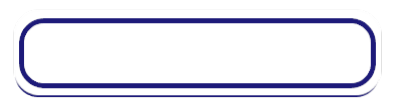
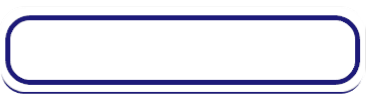
updated ui, added some styling and text feild, edited fadeOut

Changed region(s): [[0.0, 0.1489, 1.0, 1.0]]

diff --git a/src/scenes/TitleScene.ts b/src/scenes/TitleScene.ts
@@ -12,8 +12,8 @@ export default class TitleScene extends Phaser.Scene {
         this.load.image('bg3', "/images/title_bg_3.png");
         this.load.image('bg4', "/images/title_bg_4.png");
 
-        this.load.image('button-up', "/images/blue-button-up.png");
-        this.load.image('button-down', "/images/blue-button-down.png");
+        this.load.image('button-up', "/images/host-button-up.png");
+        this.load.image('button-down', "/images/host-button-down.png");
         this.load.audio('button-press-sound', '/audio/button-press.mp3');
 
     }
@@ -28,7 +28,7 @@ export default class TitleScene extends Phaser.Scene {
             image.displayHeight = this.sys.canvas.height;
         }
         
-        this.add.image(50, 25, 'title').setOrigin(0);
+        this.add.image(window.innerWidth / 2, window.innerHeight / 6, 'title').scale = 1.5;
         
         // Define the "button-anim" animation with the "button-up" and "button-down" frames
         this.anims.create({
@@ -41,25 +41,43 @@ export default class TitleScene extends Phaser.Scene {
             frameRate: 45,
             repeat: 0
         });
+
+        const input = this.add.dom(2 * window.innerWidth / 3, 2 * window.innerHeight / 5, 'input');
+        input.node.setAttribute('id', 'join-game-field');
         
-        const button1 = this.add.sprite(250, 225, 'button-up').setInteractive();
+        input.addListener('keydown');
+        // When the user presses "Enter", log the text to the console
+        input.on('keydown', (event: KeyboardEvent) => {
+            if (event.key === 'Enter') {
+                console.log((input.node as HTMLInputElement).value);
+                (input.node as HTMLInputElement).value = '';
+            }
+        });
+        
+        const button1 = this.add.sprite(window.innerWidth / 3, window.innerHeight / 2, 'button-up').setInteractive();
         
         button1.on('pointerdown', () => {
             button1.anims.play("button-press");
             button_press_sound.play();
-            this.cameras.main.fadeOut(250, 0, 0, 0);
-        });
-        
-        const button2 = this.add.sprite(250, 325, 'button-up').setInteractive();
-        button2.on('pointerdown', () => {
-            this.scene.start('options');
+            fadeOut('gamestart', this);
         });
 
-        this.add.text(175, 205, "Play Game", { fontFamily: 'Baskerville', fontSize: 32, color: '0' });
+        const button2 = this.add.sprite(2 * window.innerWidth / 3, window.innerHeight / 2, 'button-up').setInteractive();
+        button2.on('pointerdown', () => {
+            button2.anims.play("button-press");
+            button_press_sound.play();
+            fadeOut('gamestart', this);
+        });
+
+        const fadeOut = (nextScene : string, currentScene : Phaser.Scene) => {
+            currentScene.cameras.main.once(Phaser.Cameras.Scene2D.Events.FADE_OUT_COMPLETE, function () {
+                console.log('Fade out complete for button:', nextScene);
+                currentScene.scene.start(nextScene, { fadeIn: true });
+            });
         
-        this.cameras.main.once(Phaser.Cameras.Scene2D.Events.FADE_OUT_COMPLETE, () => {
-            this.scene.start('gamestart', { fadeIn: true })
-        })
+            currentScene.cameras.main.fadeOut(250);
+        }
+
         
     }
 }

diff --git a/src/main.ts b/src/main.ts
@@ -13,7 +13,10 @@ const config: Phaser.Types.Core.GameConfig = {
         height: '100%'
     },
 	parent: 'app',
-	scene: [TitleScene, GameStartScene, OptionsScene]
+	scene: [TitleScene, GameStartScene, OptionsScene],
+    dom : {
+        createContainer: true
+    }
 }
 
 export default new Phaser.Game(config);

diff --git a/index.css b/index.css
@@ -2,3 +2,13 @@ body {
     margin : 0;
     overflow: hidden;
 }
+
+#join-game-field {
+    font-size: 32px; 
+    width: 400px; 
+    height: 50px; 
+    border-radius: 25px; 
+    padding: 10px; 
+    text-align: center; 
+    background-color: #FFFFFF;
+}
